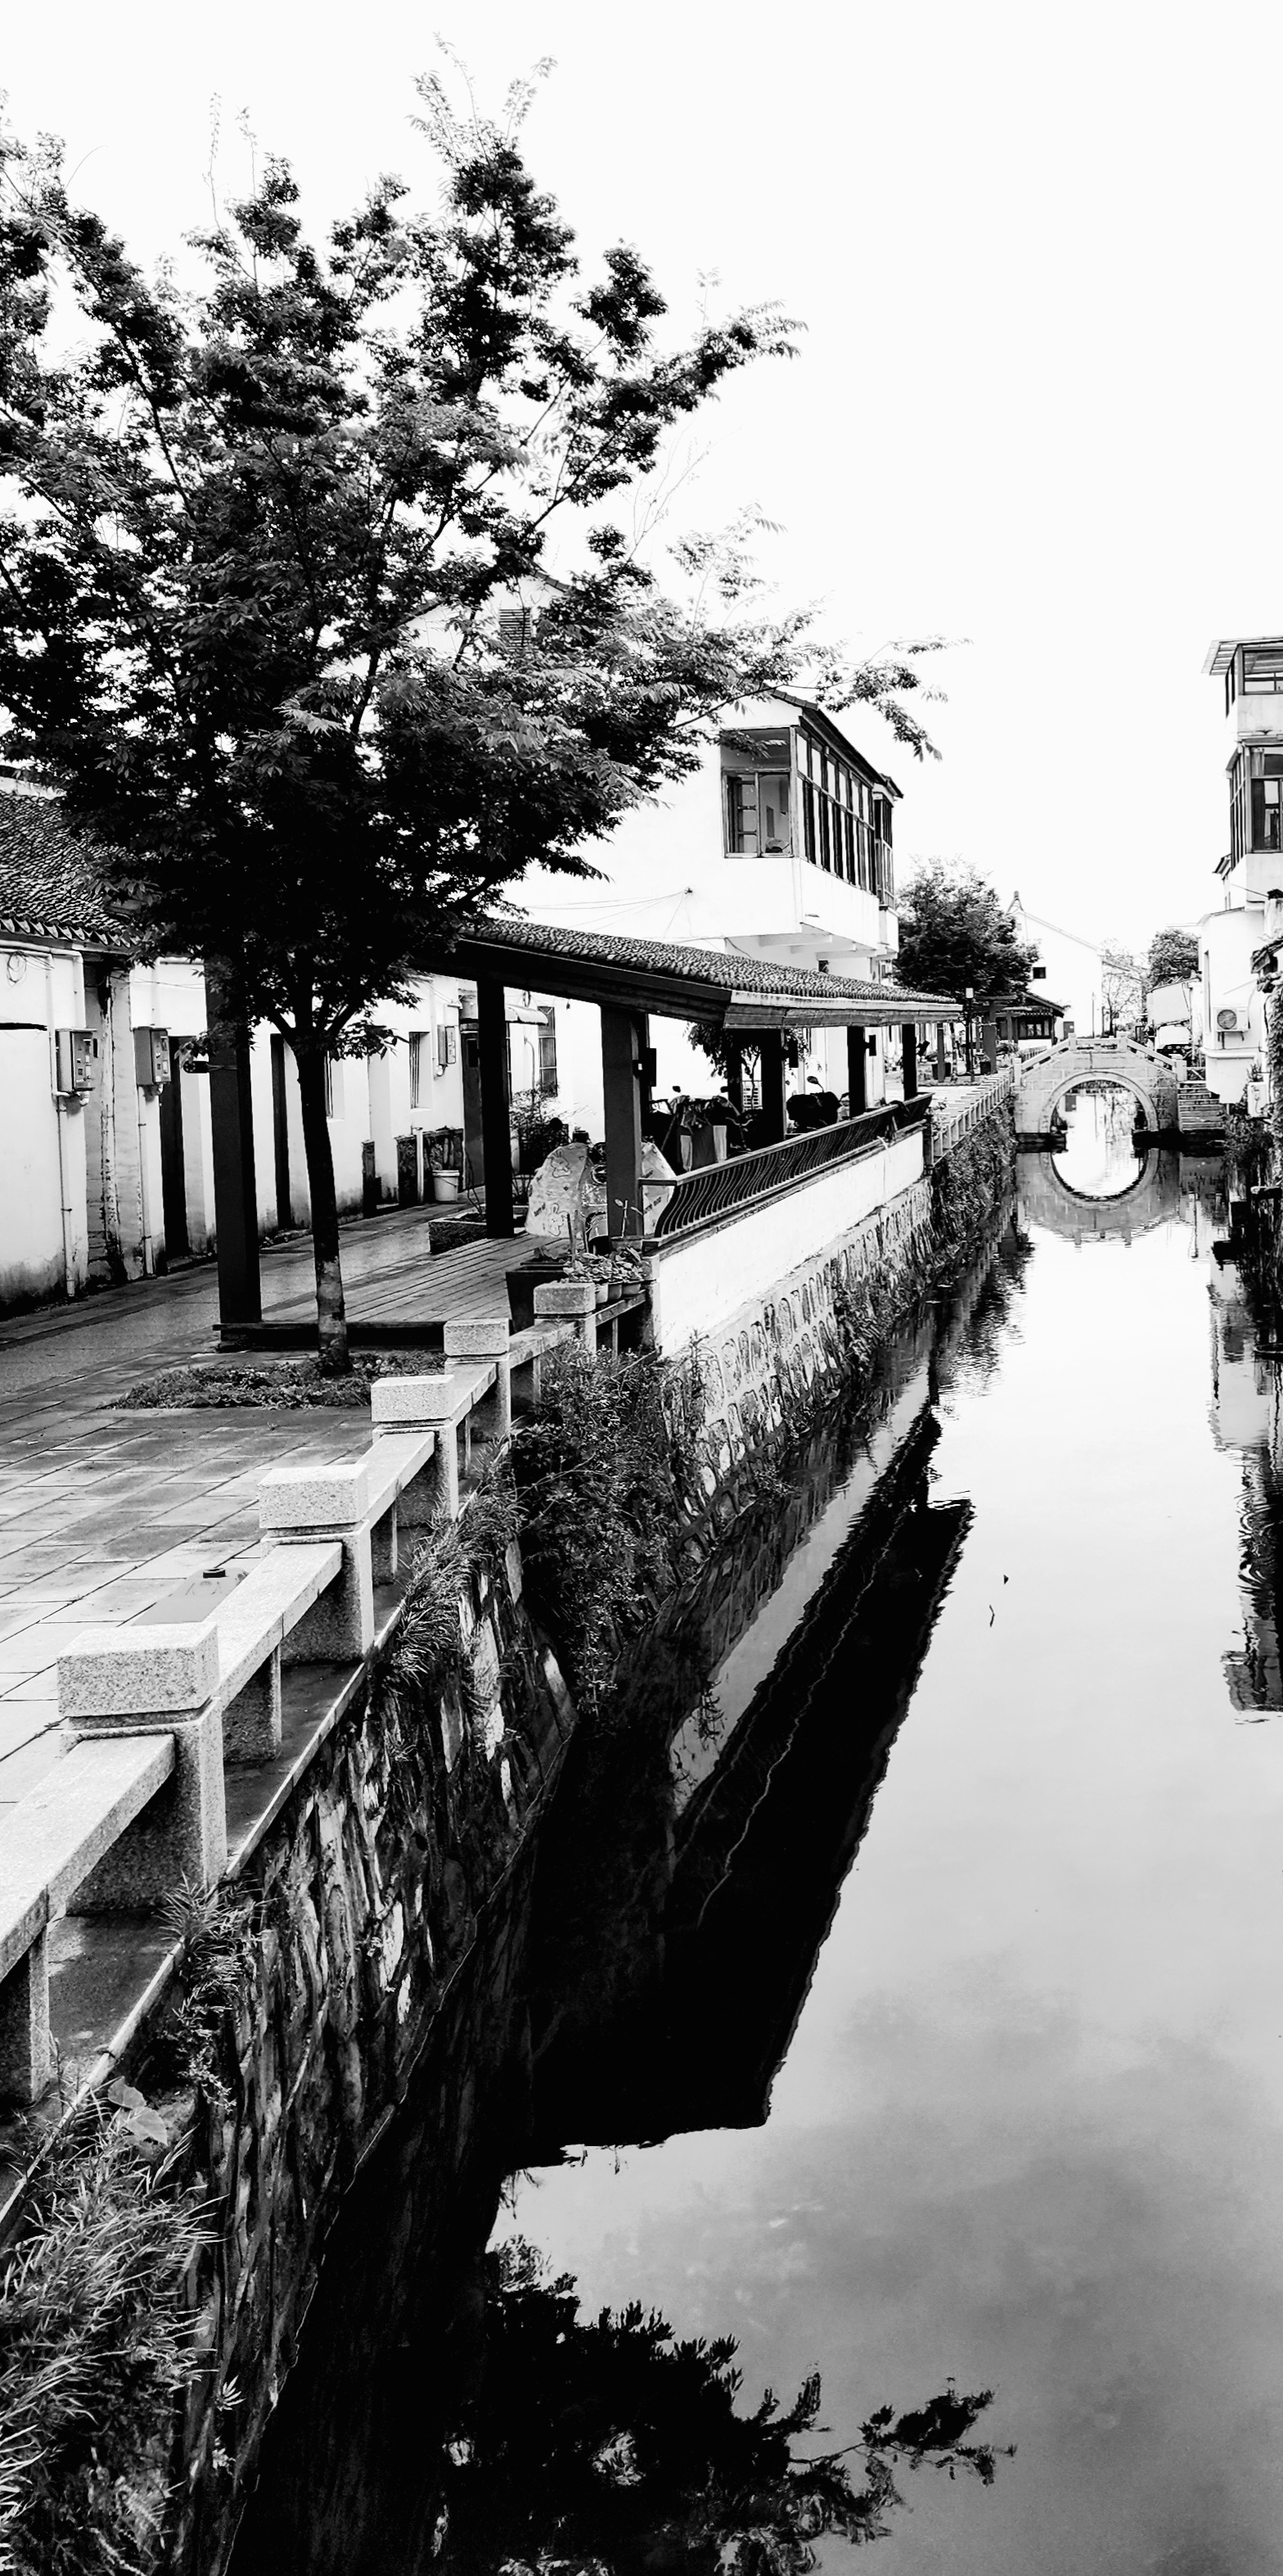
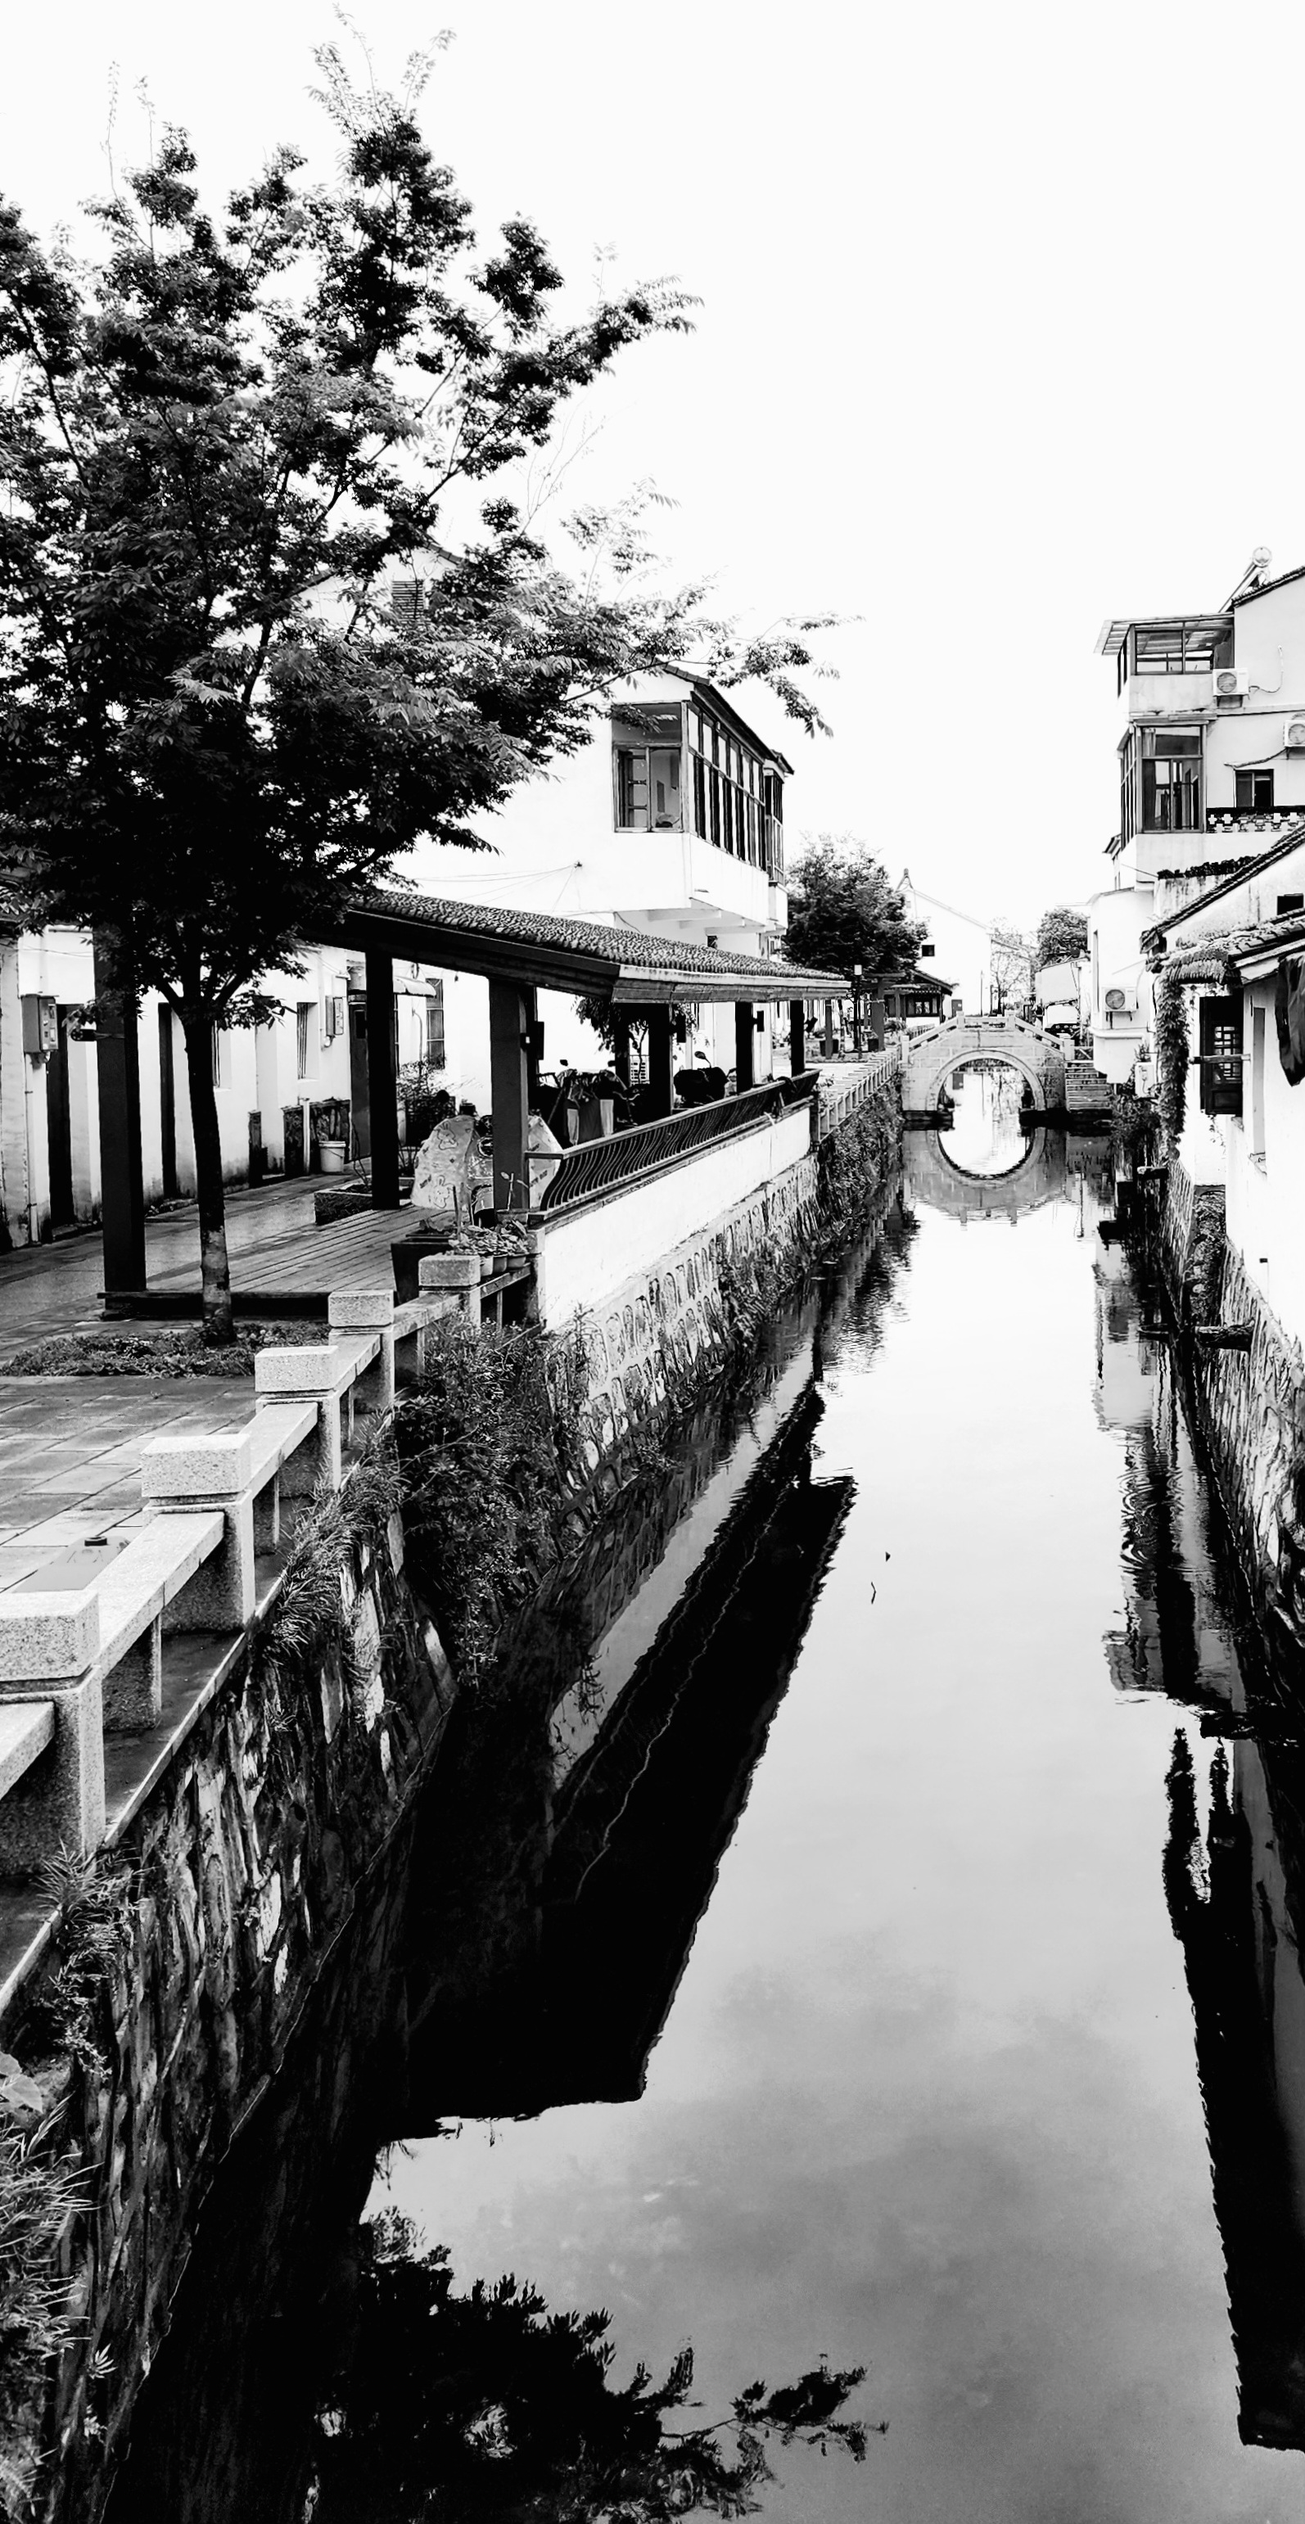
commit

diff --git a/index.html b/index.html
@@ -3,15 +3,16 @@
 
 <style>
 body {
-  background-color: #000000;
-  color: #dddddd
+  background-color: #444444;
+  color: #cccccc
 }
 </style>
 
 <style>
 img {
-  padding-top: 50px;
-  padding-left: 15px;
+  margin-top: 50px;
+  margin-left: 20px;
+  border: 1px solid black;
 }
 </style>
 
@@ -30,13 +31,19 @@ a:link {
 </head>
 
 <body>
-<h1>John Rugis - Photography</h1>
+<h1 style="text-shadow: -2px 2px 4px #000000;">John Rugis - Photography</h1>
 <small>
-<br>Copyright 2024-2026 J.Rugis
+
+<div style="color:#999999; margin-left: 20px;">
+Copyright 2024-2026 J.Rugis
 <br>All rights reserved.
 <br>E-mail: jrugis@gmail.com
+</div>
 
-<br><a href="20260627_093257.jpg"><img src="20260627_093257.jpg" alt="Two Trees" height=250></a>
+<br><a href="20260629_093922.jpg"><img src="20260629_093922.jpg" alt="Untitled" height=210></a>
+<br><i>Untitled</i>, New Zealand (2026)
+
+<br><a href="20260627_093257.jpg"><img src="20260627_093257.jpg" alt="Two Trees" height=230></a>
 <br><i>Two Trees</i>, New Zealand (2026)
 
 <br><a href="20260607_155717.jpg" ><img src="20260607_155717.jpg" alt="The Lamp" height=220></a>
@@ -70,8 +77,3 @@ a:link {
 </body>
 
 </html>
-
-<!--
-  max-width: 220px; /* Set a small width */
-  max-height: 220px; /* Set a small width */
--->
